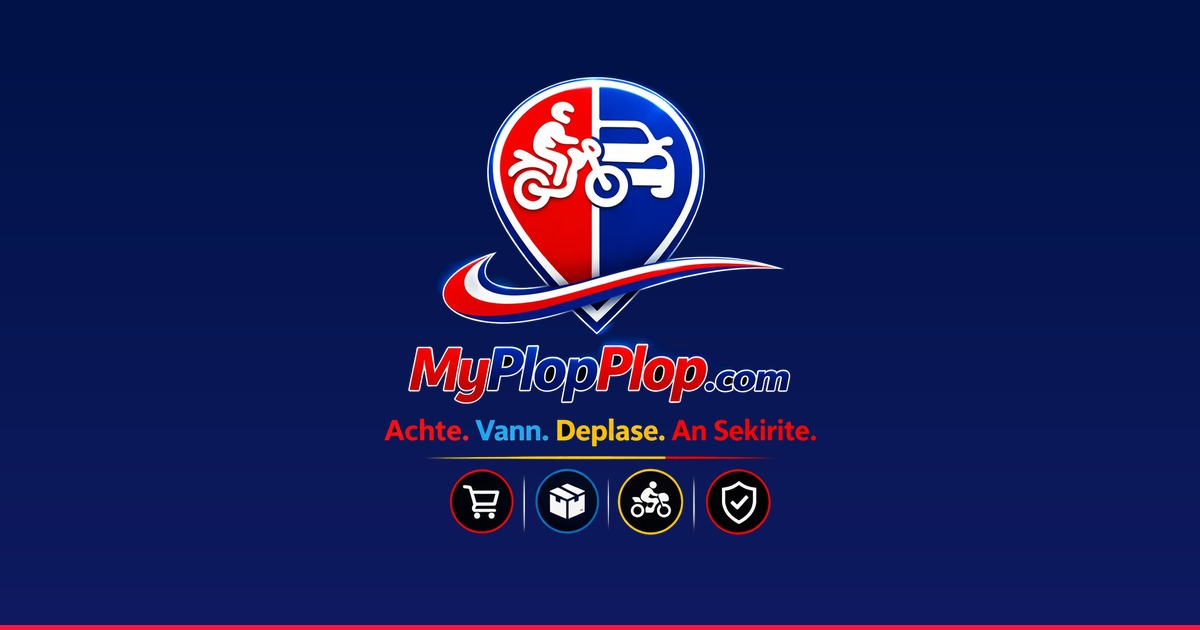
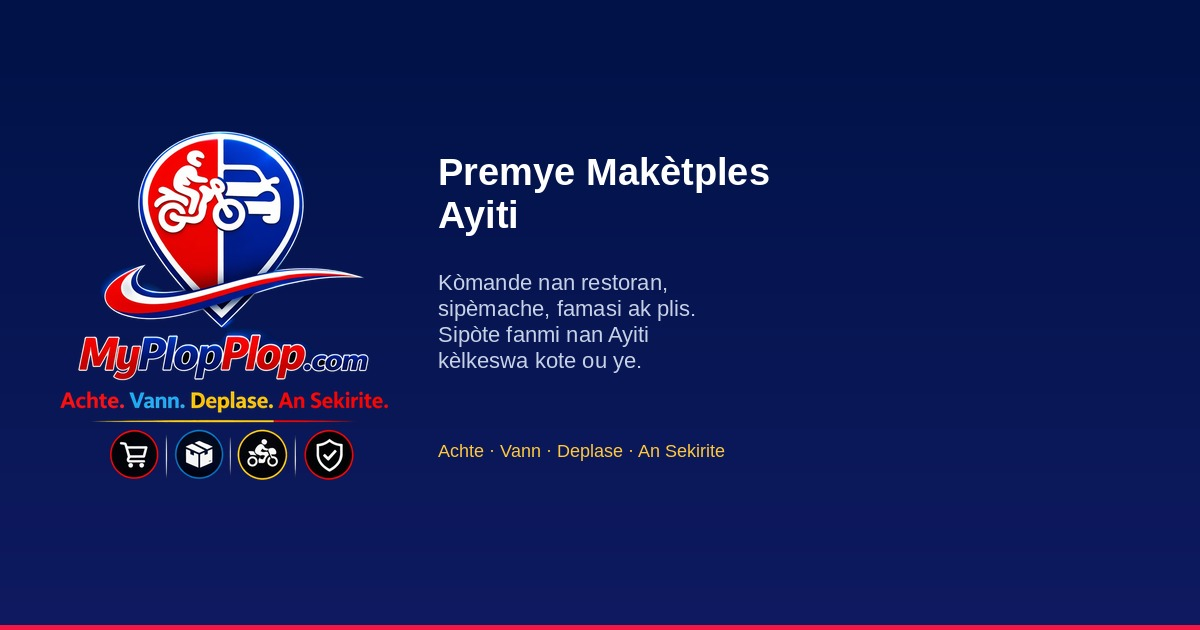
Add Kreyol WhatsApp og:image preview and update meta tags

Changed region(s): [[0.0308, 0.1206, 0.6783, 0.8746]]

diff --git a/index.html b/index.html
@@ -3,10 +3,10 @@
 <head>
 <meta charset="UTF-8">
 <meta name="viewport" content="width=device-width, initial-scale=1.0, viewport-fit=cover">
-<title>MyPlopPlop — Haiti's First Marketplace</title>
-<meta name="description" content="Order from restaurants, supermarkets, pharmacies, hardware stores and more. Delivery across Haiti. Support family from anywhere.">
-<meta property="og:title" content="MyPlopPlop — Delivery Marketplace for Haiti">
-<meta property="og:description" content="Order from restaurants, supermarkets, pharmacies and more. Support family and friends in Haiti from anywhere in the world.">
+<title>MyPlopPlop — Premye Makètples Ayiti</title>
+<meta name="description" content="Kòmande nan restoran, sipèmache, famasi, kenkayri ak plis ankò. Livrezon nan tout Ayiti. Sipòte fanmi ak zanmi kèlkeswa kote ou ye.">
+<meta property="og:title" content="MyPlopPlop — Premye Makètples Ayiti">
+<meta property="og:description" content="Kòmande nan restoran, sipèmache, famasi ak plis ankò. Sipòte fanmi ak zanmi nan Ayiti kèlkeswa kote ou ye.">
 <meta property="og:type" content="website">
 <meta property="og:image" content="https://myplopplop.com/assets/img/og-preview.jpg">
 <meta property="og:image:width" content="1200">
